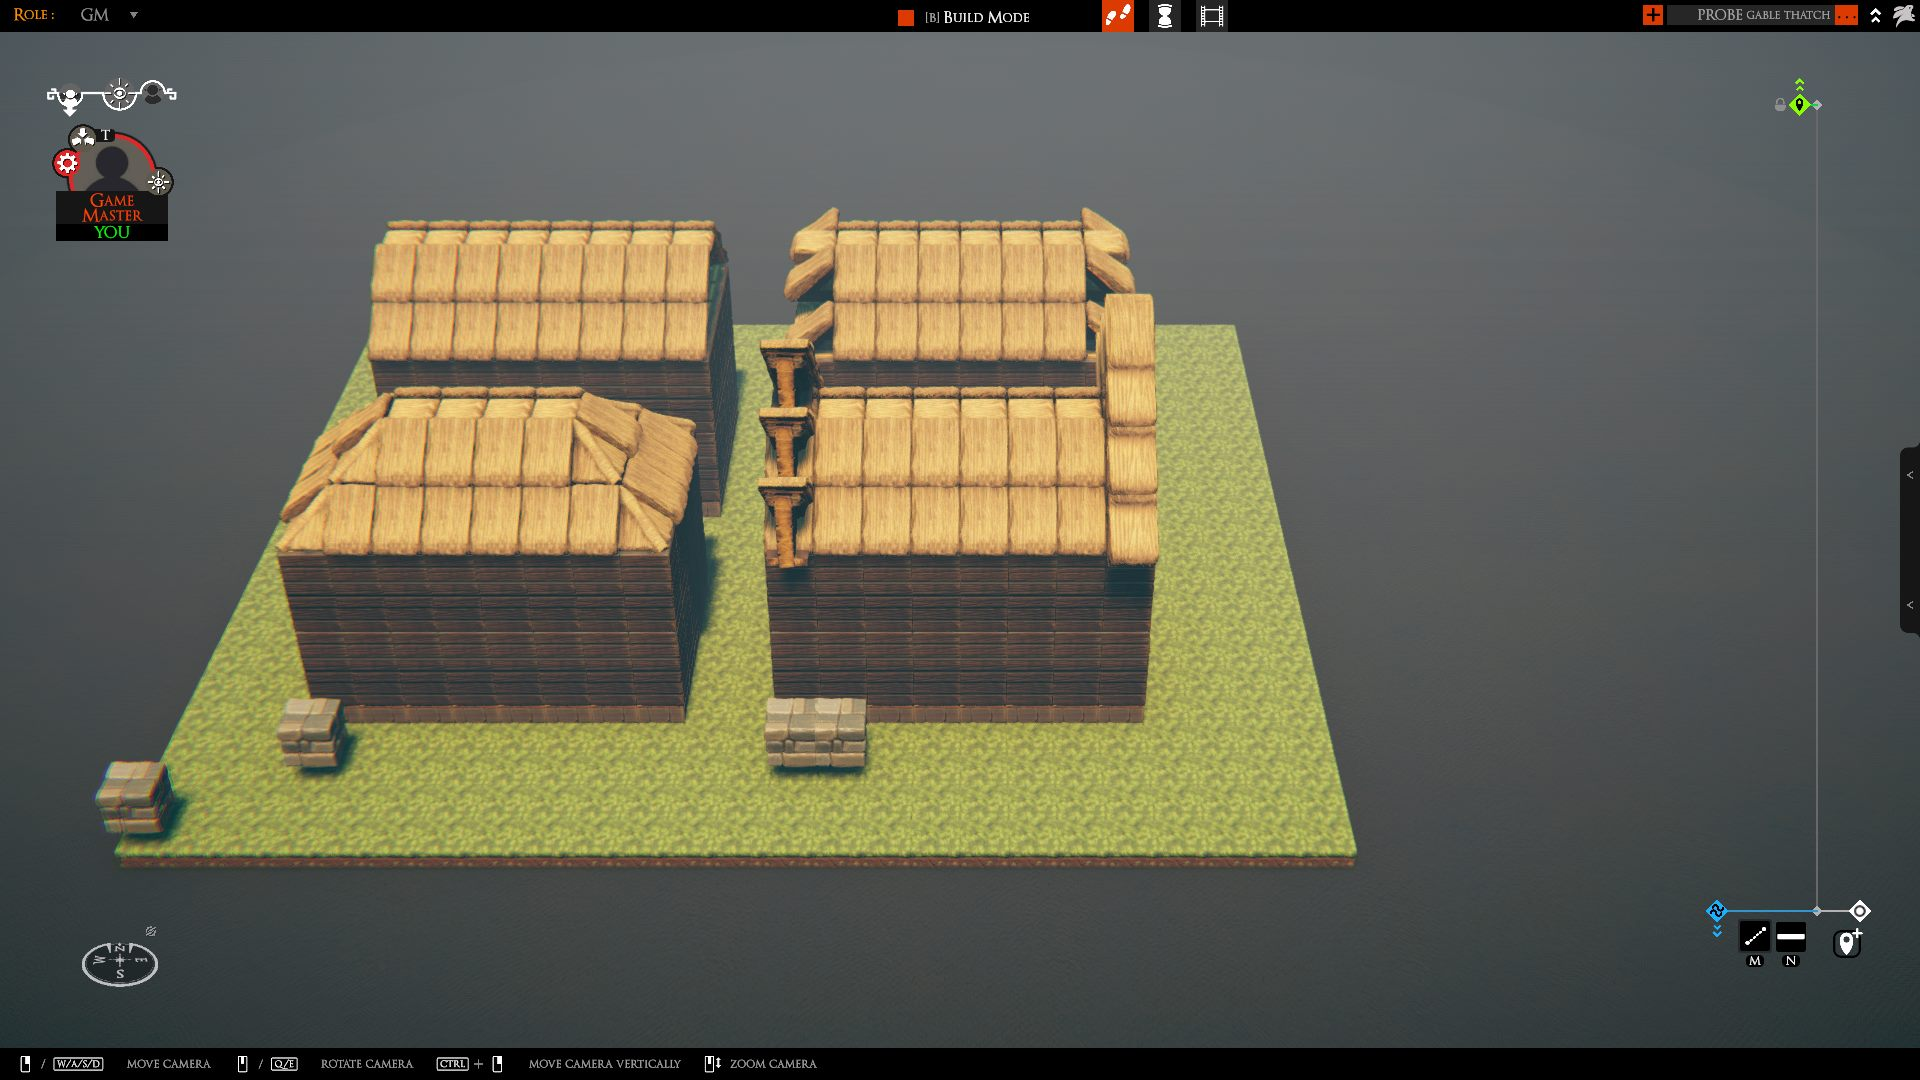
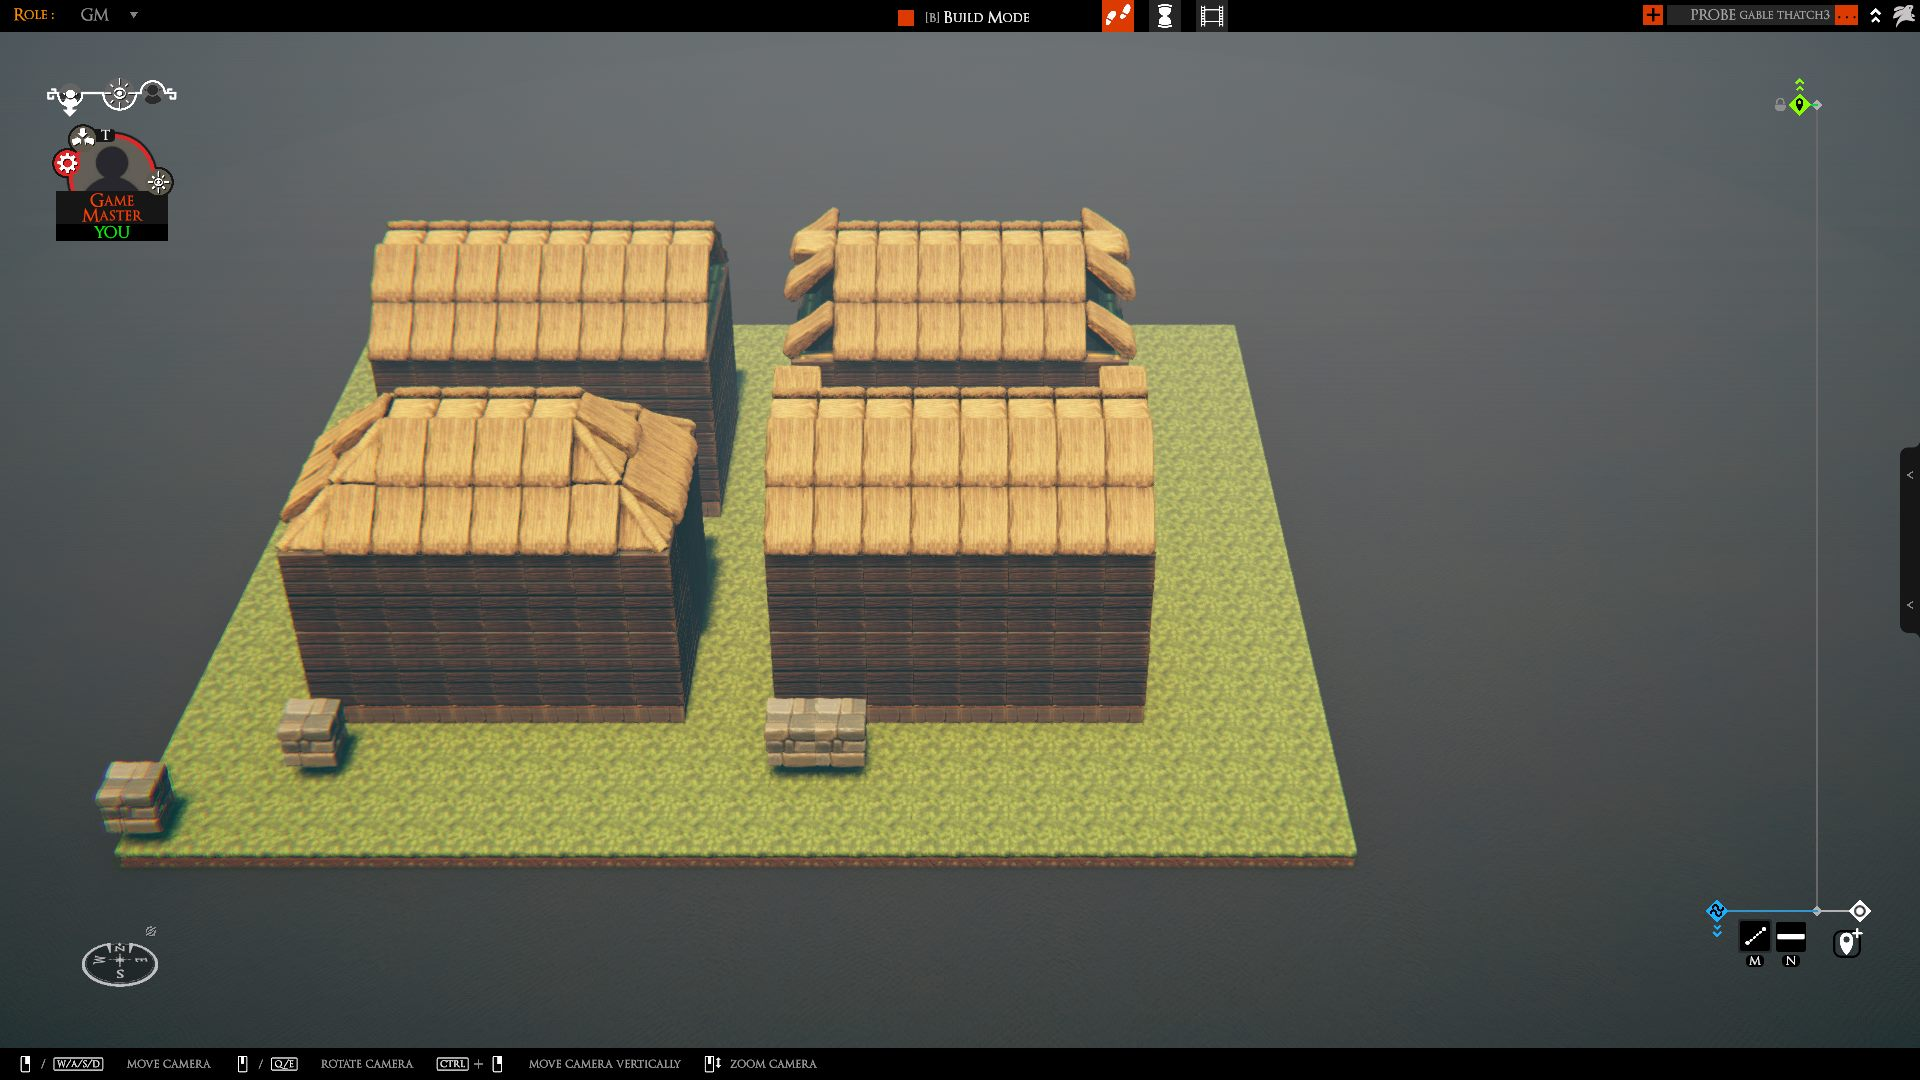
Fix the end placement, and the thatch verge reads as thatch
Two bugs, both mine and both in the probe rather than the kit.

The first cut stood an `end` piece at every cell of the end column with
`place_wall`, on top of the slope already there instead of in place of it --
`lay_bay_wide` substitutes, and the column of stacked panels on the first
paste was that. The second was arithmetic: `Thatched Roof Wall` is 2.0 tall
against a 1.0 rise, so a panel started at the last course rises a course past
the slope it is closing. The loop now lays only panels that FIT under the roof
line and gives the shorter remainder to the flat cap -- one course under the
ridge rather than the whole rake.

**The answer `gable-verge-look` wanted is now on a board.** `Thatched Roof
Wall` reads as a continuous thatch verge where the stacked flat cap reads as
boarding. The piece is confirmed and a placement that works exists to copy
into `gable_infill`.

Not diagnosed, and said so rather than implied: one bay still carries thatch
bolsters proud of the ridge ends like horns, UNCHANGED across all three
pastes. So they are not the verge loop, which is now bounded, and they belong
to a treatment I have not identified -- the numbering bars have still not been
counted against the four candidates. Read the bars first; the answer is in
whichever treatment that bay turns out to be.

Changed region(s): [[0.5625, 0.275, 0.625, 0.55], [0.375, 0.275, 0.4375, 0.55], [0.875, 0.0, 0.9375, 0.0306]]

diff --git a/tools/gable_probe.py b/tools/gable_probe.py
@@ -271,31 +271,64 @@ def lay_bay(out, pieces, ground, wall, ox: int, oz: int, treatment: str,
 
     if treatment == "gable-bare":
         return                                  # the control: nothing closes it
+    if hip_last:
+        return                 # a half-hip has no gable wall to close at all
 
-    # The end piece stands in the gable wall's plane, one per course.
-    for (x, z), (course, fall) in sorted(courses.items()):
-        # A half-hip has no gable wall at that column -- it is hipped -- so
-        # there is nothing for an end piece to stand in.
-        if hip_last or x not in (lo_x, hi_x):
-            continue
-        side = "w" if x == lo_x else "e"
-        if end is not None:
-            out.append(place_wall(end, ox + x, oz + z, side, roof_y + course * rise))
-
-    # The triangle under it: the kit's own infill panel where it has one, and
-    # the roof's flat cap stacked where it does not -- which is precisely the
-    # boarding `gable-verge-look` exists to replace, kept here as the control
-    # the candidate has to beat.
-    filler = infill if infill is not None else cap
-    if filler is None:
+    # **The triangle, and this is the whole of `gable-verge-look`.**
+    #
+    # First cut of this stood an `end` piece at every cell of the end column
+    # with `place_wall`, ON TOP of the slope already there rather than in
+    # place of it, and the board showed thatch bolsters proud of the ridge
+    # like horns. `lay_bay_wide` does not do that: at the end column it
+    # SUBSTITUTES the end piece for the slope. The horns were the probe.
+    #
+    # A wall-shaped verge piece is not a cap and does not stack like one.
+    # `Thatched Roof Wall` is 2.0 x 2.0 x 1.0 -- two cells along its own x,
+    # two tiles tall, one deep -- so laid in a plane of constant x it takes a
+    # quarter turn to put its long axis across the ridge, spans TWO cells of
+    # z, and covers TWO courses of a 1.0 rise. One per cell, unturned, is the
+    # column of stacked panels the first paste showed.
+    verge = infill if infill is not None else end
+    if verge is None:
+        verge = cap
+    if verge is None:
         return
-    for (x, z), (course, fall) in sorted(courses.items()):
-        if x not in (lo_x, hi_x):
-            continue
-        side = "w" if x == lo_x else "e"
-        for k in range(course):
-            out.append(place_wall(filler, ox + x, oz + z, side,
-                                  roof_y + k * filler.size_y))
+    wide = verge.size_x >= 2.0 - 1e-6
+    zs = sorted({c[1] for c in cells})
+    step = 2 if wide else 1
+    lift = verge.size_y
+
+    for x in (lo_x, hi_x):
+        for i in range(0, len(zs), step):
+            group = zs[i:i + step]
+            if len(group) < step:
+                continue        # an odd cell at the end has no partner piece
+            course = max(courses[(x, zz)][0] for zz in group)
+            if course <= 0:
+                continue
+            cz = oz + (group[0] + group[-1]) / 2.0 + 0.5
+            cx = ox + x + 0.5
+            # A quarter turn where the piece is wide, so its length runs
+            # across the ridge and not along it.
+            rot = 6 if wide else 0
+            # **Only a panel that FITS under the roof line.** A 2.0-tall
+            # panel started at the last course rises a course past the slope
+            # it is closing, and on the board that is a thatch bolster
+            # standing proud of the ridge like a horn -- which is what the
+            # first two pastes of this showed and what was read as a kit
+            # fault before it was read as arithmetic.
+            tall = max(1, int(round(lift / rise)))
+            k = 0
+            while k + tall <= course:
+                out.append(place_centered(verge, cx, cz, roof_y + k * rise, rot))
+                k += tall
+            # The remainder, shorter than one panel, takes the flat cap: it is
+            # the one place the boarding is unavoidable, and it is one course
+            # under the ridge rather than the whole rake.
+            if k < course and cap is not None:
+                for j in range(k, course):
+                    out.append(place_centered(cap, cx, cz,
+                                              roof_y + j * rise, rot))
 
 
 def lay_bay_wide(out, pieces, ox: int, oz: int, offset: int,
